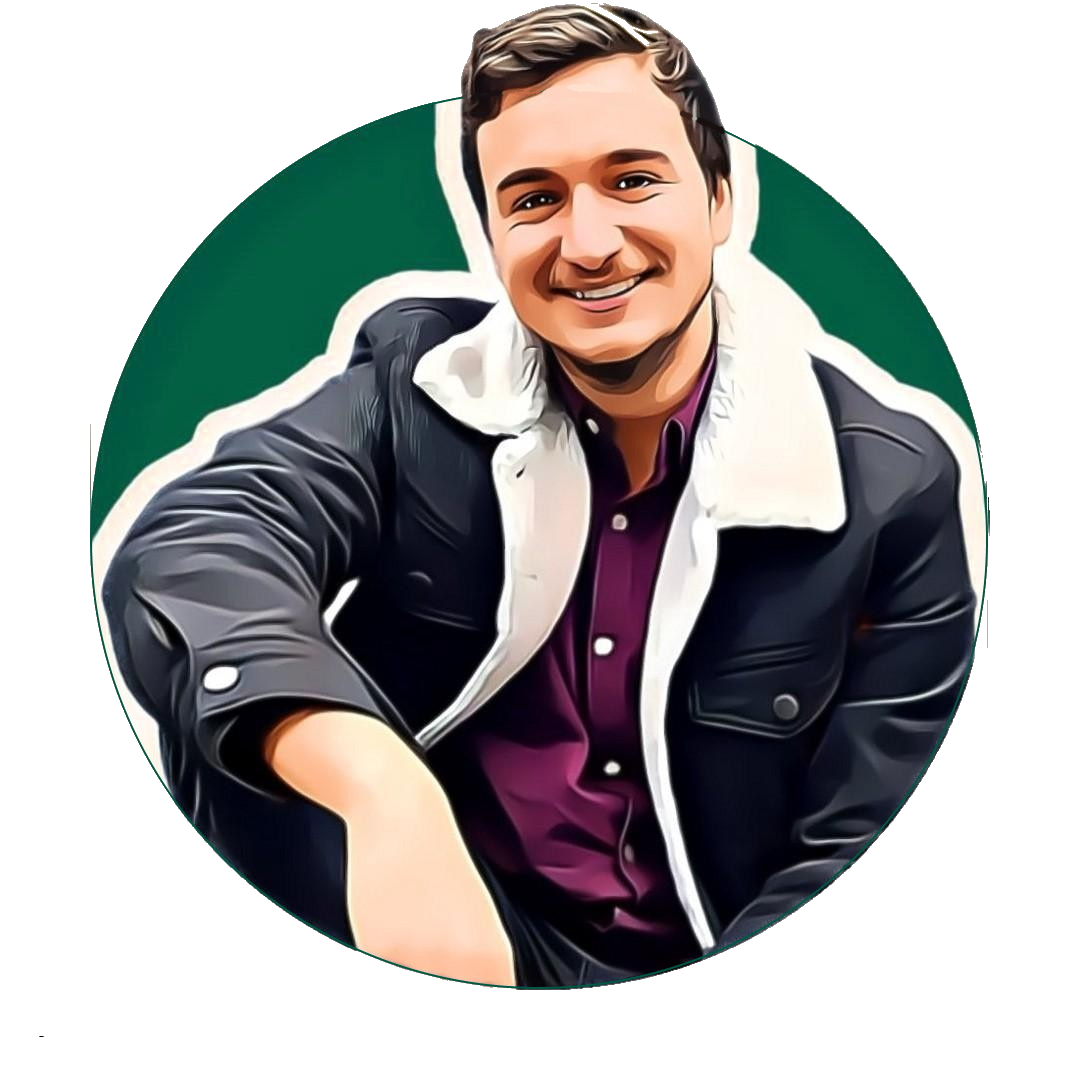
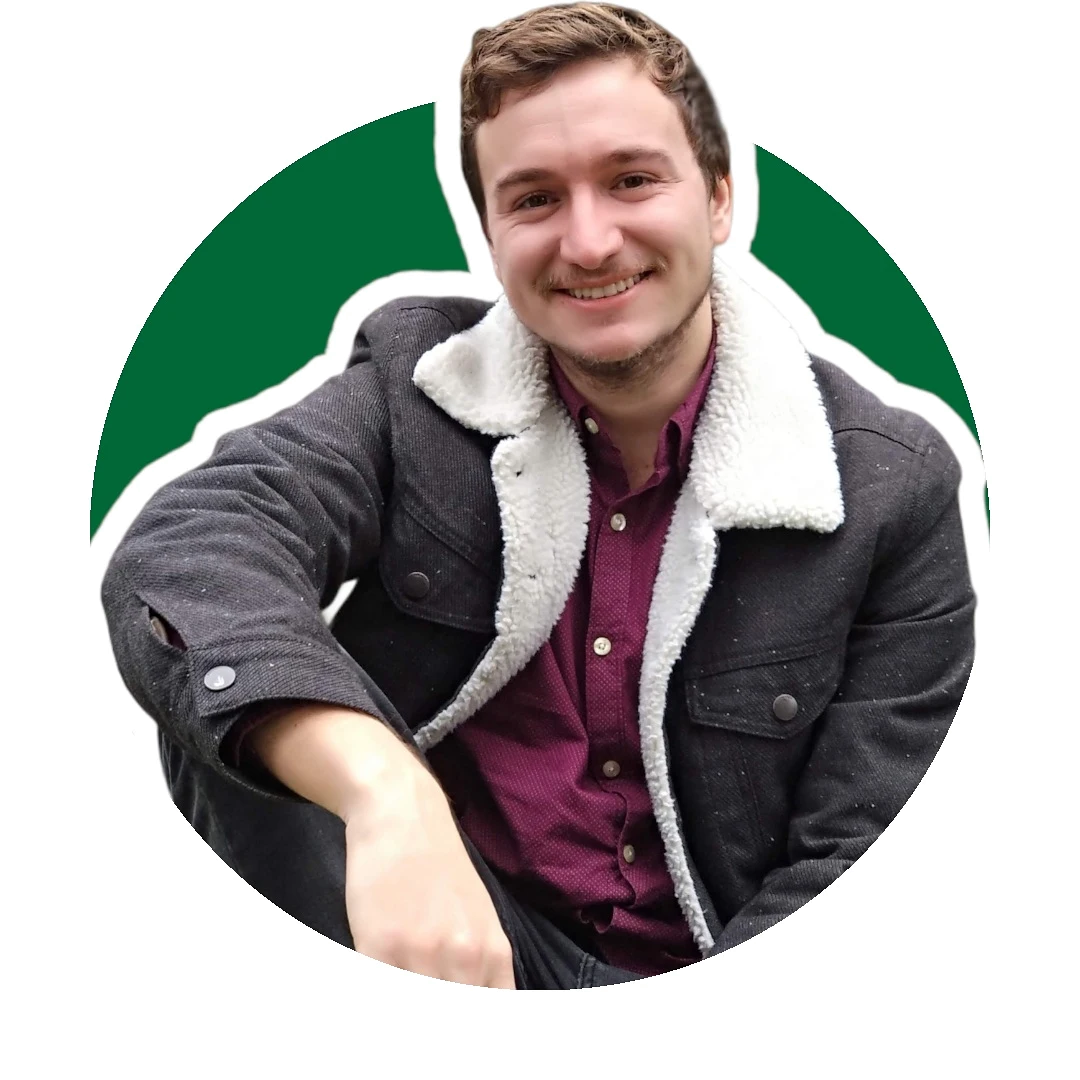
Upload profile image and index file

Changed region(s): [[0.0611, 0.0, 0.9167, 0.9167]]

diff --git a/index.html b/index.html
@@ -30,7 +30,7 @@
 							<div class="inner">
 								<h1>Clemente Donoso Krauss</h1>
 								<p>
-                                    Estudiante de Ingeniería Civil Informática, apasionado con la robótica, la inteligencia Artificial y el universo. 
+                                    Estudiante de Ingeniería Civil Informática, apasionado de la robótica, la inteligencia Artificial y el universo. 
                                     Siempre estoy buscando nuevos desafíos y aprendiendo nuevas tecnologías.
                                 </p>
 							</div>
